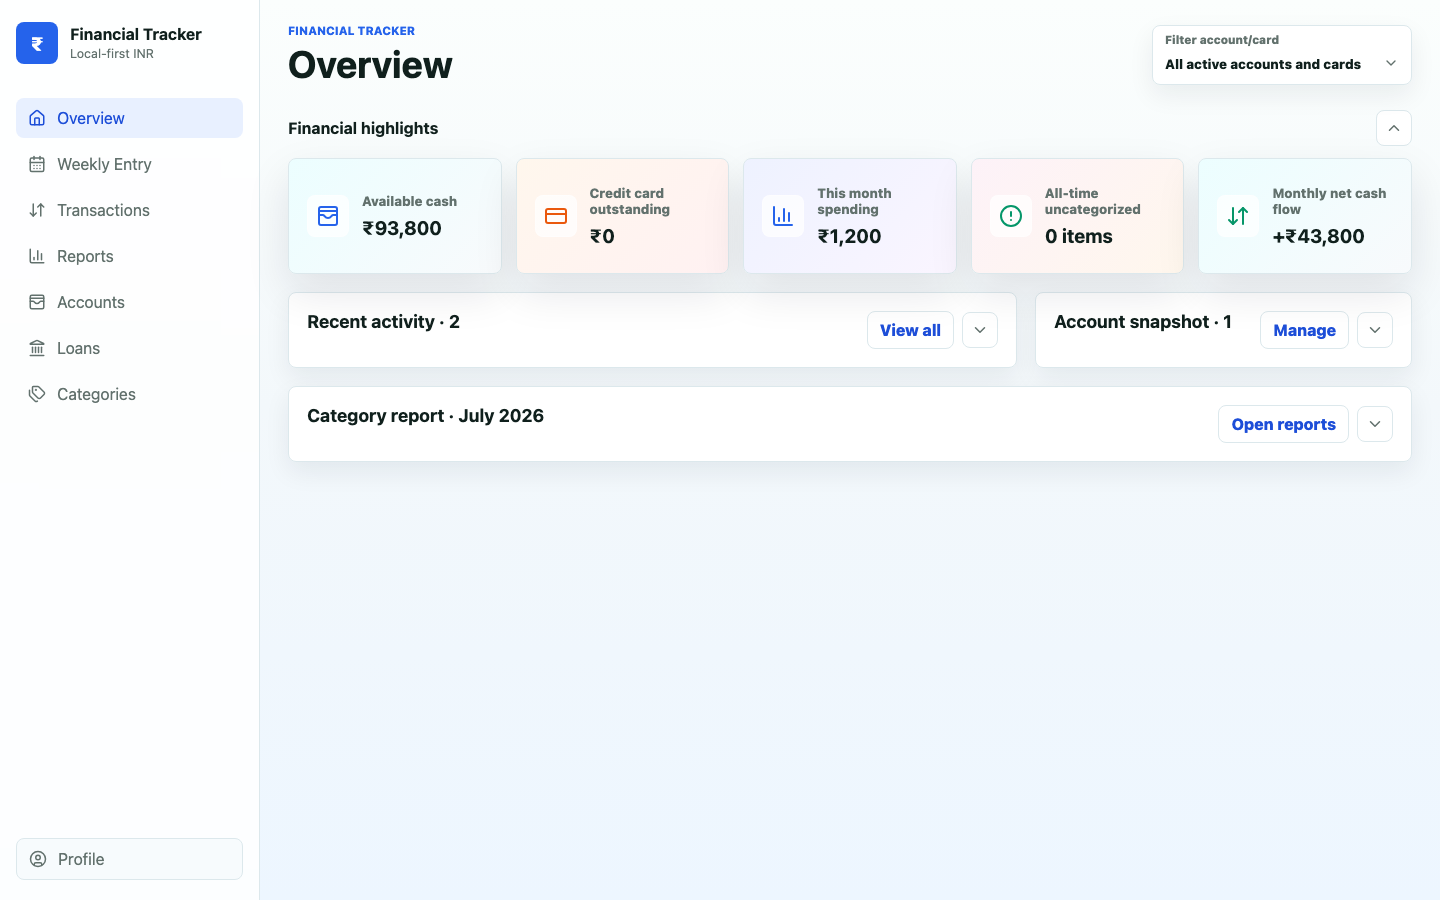
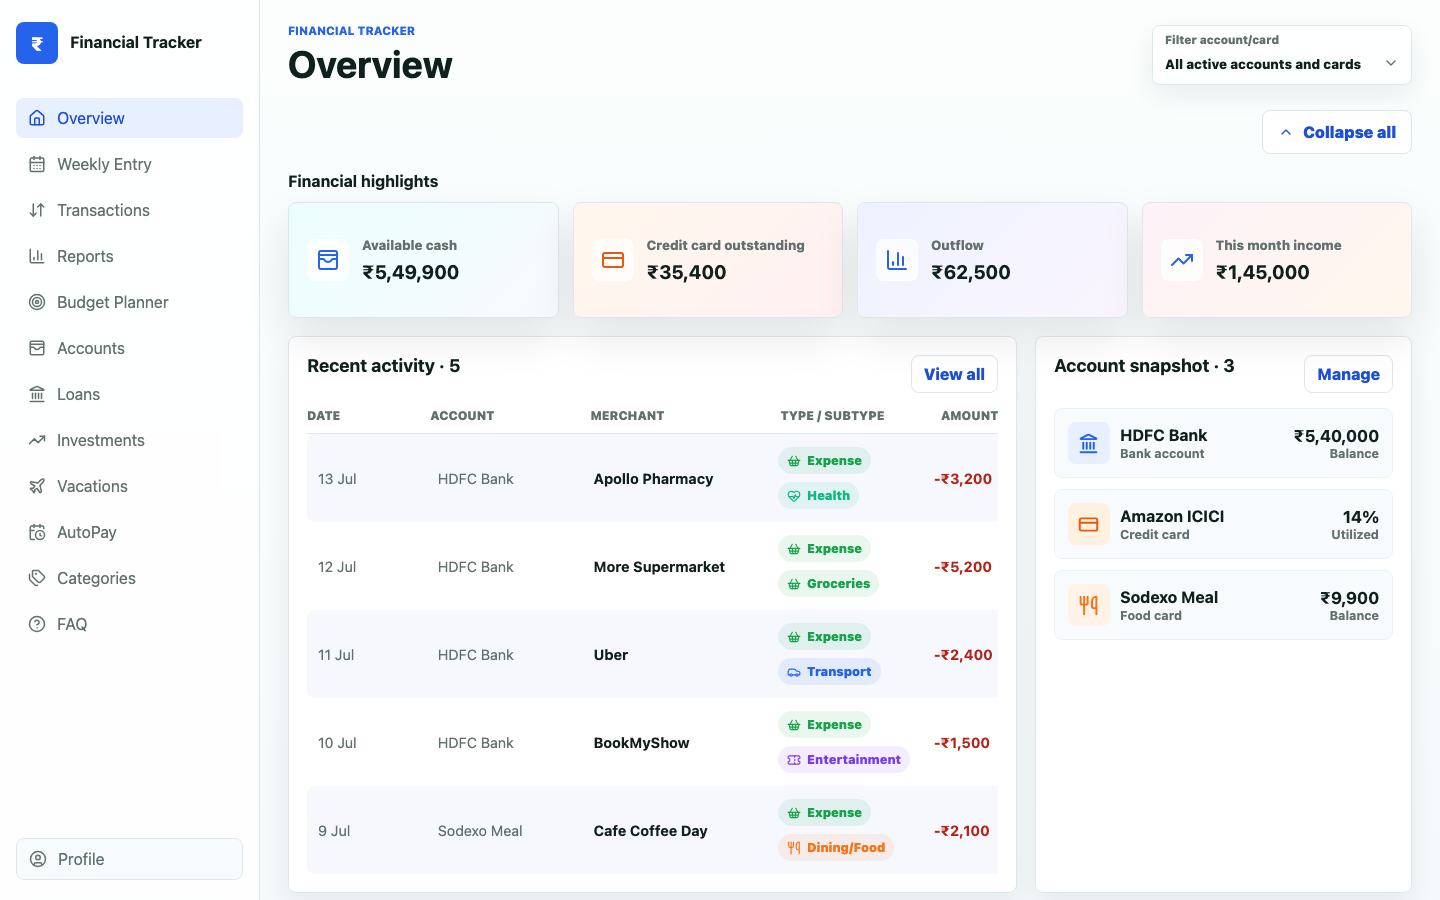
Refresh README + screenshot; fix vacation-toggle state desync
- Code review fix: the 'Part of a vacation?' toggle kept a separate boolean
  that could desync from vacationId (e.g. changing Type in the edit form
  cleared the trip but left the box ticked, showing a trip that wasn't
  actually set). The toggle is now derived from vacationId directly —
  ticking sets the newest trip, unticking clears it, and any Type/SubType
  change that drops the tag also unticks the box. Removes two useState.
- README: document Vacations, fixed deposits + per-type investment grouping,
  the budget-vs-actual chart, and correct the Budget Planner line to
  expense-SubType budgets. Regenerated the overview screenshot with fresh
  demo data (now shows the current UI incl. the Vacations nav).

tsc clean, 48 QA tests pass, build ok.

diff --git a/src/App.tsx b/src/App.tsx
@@ -989,7 +989,6 @@ function WeeklyEntryPage({
   const [importOpen, setImportOpen] = useState(false);
   const [duplicateCount, setDuplicateCount] = useState(0);
   const [saving, setSaving] = useState(false);
-  const [vacationOn, setVacationOn] = useState(false);
   const [form, setForm] = useState({
     date: todayISO(),
     accountId: firstAccount?.id ?? "",
@@ -1315,20 +1314,18 @@ function WeeklyEntryPage({
                 <label className="vacation-check">
                   <input
                     type="checkbox"
-                    checked={vacationOn}
-                    onChange={(event) => {
-                      const on = event.target.checked;
-                      setVacationOn(on);
+                    checked={Boolean(form.vacationId)}
+                    onChange={(event) =>
                       setForm((current) => ({
                         ...current,
-                        vacationId: on ? current.vacationId || vacations[0].id : ""
-                      }));
-                    }}
+                        vacationId: event.target.checked ? current.vacationId || vacations[0].id : ""
+                      }))
+                    }
                   />
                   <span>Part of a vacation?</span>
                 </label>
               )}
-              {isExpenseSelected && vacations.length > 0 && vacationOn && (
+              {isExpenseSelected && vacations.length > 0 && form.vacationId && (
                 <label>
                   Vacation
                   <select
@@ -1855,7 +1852,6 @@ function TransactionEditRow({
   const isAutopaySelected = draft.subcategoryId === AUTOPAY_SUBCATEGORY_ID;
   const isMutualFundsSelected = draft.subcategoryId === MUTUAL_FUNDS_SUBCATEGORY_ID;
   const isExpenseSelected = behavior === "expense";
-  const [vacationOn, setVacationOn] = useState(Boolean(draft.vacationId));
   const isSelfTransferSelected = draft.subcategoryId === SELF_TRANSFER_SUBCATEGORY_ID;
   const selfTransferTargets = selfTransferTargetAccounts(accounts, draft.accountId);
   const availableSubscriptions = subscriptions.filter(
@@ -2043,17 +2039,15 @@ function TransactionEditRow({
           <label className="vacation-check">
             <input
               type="checkbox"
-              checked={vacationOn}
-              onChange={(event) => {
-                const on = event.target.checked;
-                setVacationOn(on);
-                onChange({ ...draft, vacationId: on ? draft.vacationId || vacations[0].id : "" });
-              }}
+              checked={Boolean(draft.vacationId)}
+              onChange={(event) =>
+                onChange({ ...draft, vacationId: event.target.checked ? draft.vacationId || vacations[0].id : "" })
+              }
             />
             <span>Part of a vacation?</span>
           </label>
         )}
-        {isExpenseSelected && vacations.length > 0 && vacationOn && (
+        {isExpenseSelected && vacations.length > 0 && draft.vacationId && (
           <label>
             Vacation
             <select

diff --git a/README.md b/README.md
@@ -14,9 +14,13 @@ database both live on your computer, with no external hosting and no cloud accou
 - Weekly transaction entry across bank accounts, credit cards, and food cards
 - Full transaction ledger with search and type/subtype filters
 - Self transfers between your own bank accounts, which move both balances without counting as spending
-- Reports with inflow/outflow/savings, category breakdowns, and week-, month- and year-on-year Type trends
-- Budget Planner for monthly Type/SubType budgets, usage percentage, projected spend, and early warning states
-- Investment holdings with per-holding payment history
+- Reports with inflow/outflow/savings, an outflow mix and per-Type breakdowns, week-/month-/year-on-year
+  trends, and a budget-vs-actual chart per expense SubType
+- Budget Planner for monthly expense-SubType budgets, usage percentage, projected spend, and early warning states
+- Investment holdings — stocks, mutual funds, gold, land, property, PF and fixed deposits — grouped by type with
+  invested/current/net-gain, feeding the Overview's asset-allocation donut, plus per-holding SIP payment history
+- Vacations — tag any expense to a trip and it still counts as a normal expense while also rolling up under the
+  trip, with a per-SubType breakdown and an optional trip budget
 - Loan, AutoPay subscription, account, credit-card, and food-card tracking
 - Custom Types and SubTypes
 - Built-in FAQ explaining how each figure is calculated
